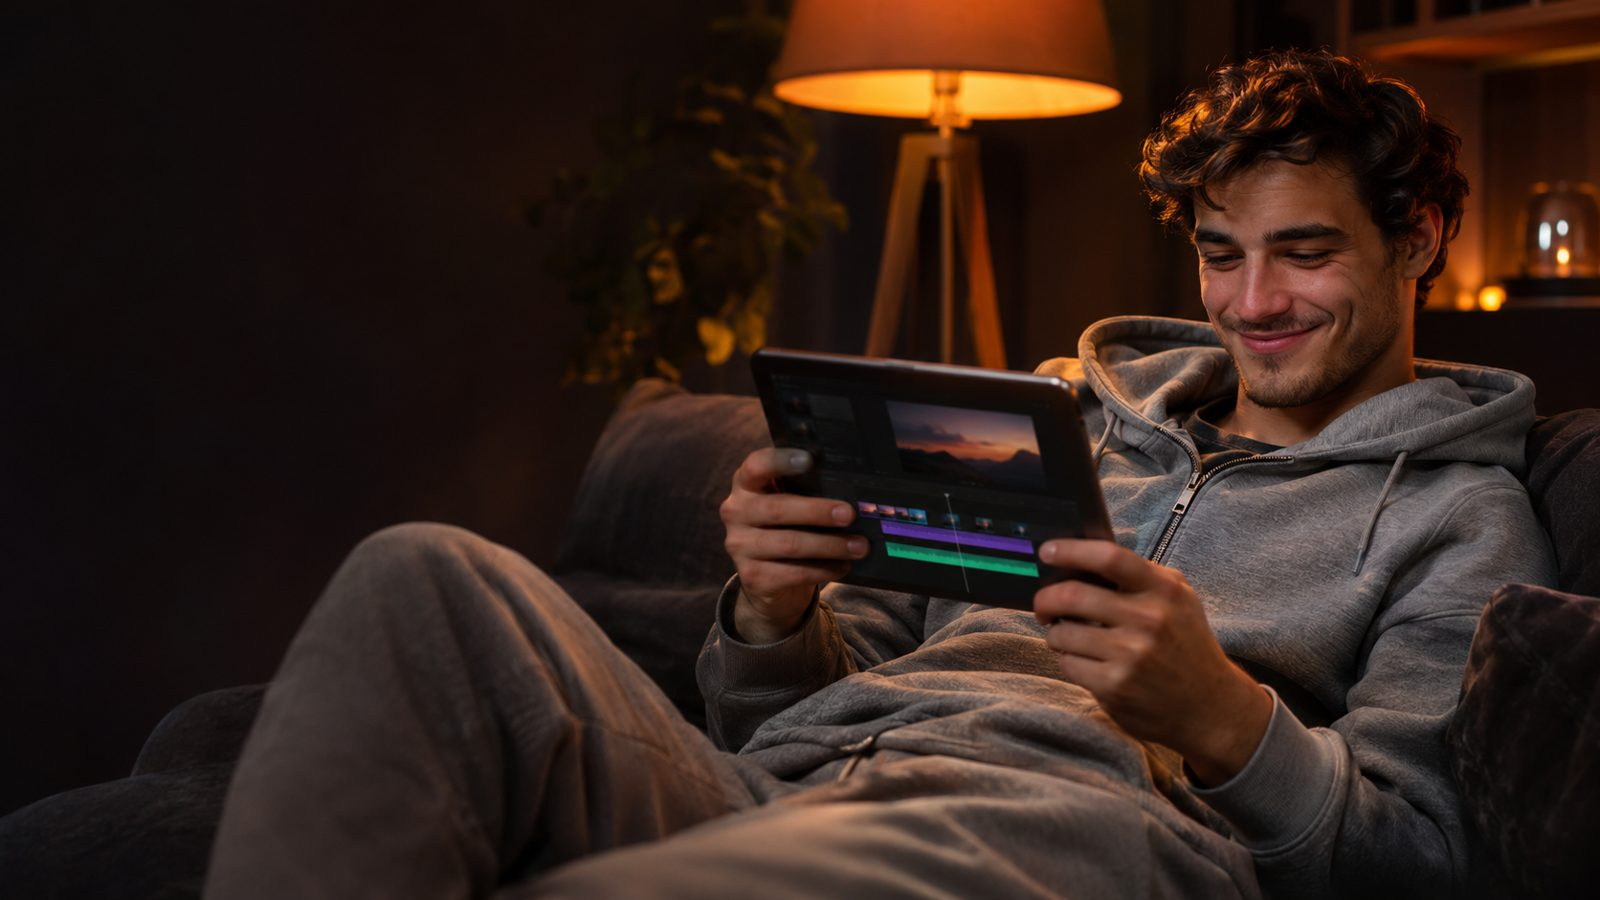
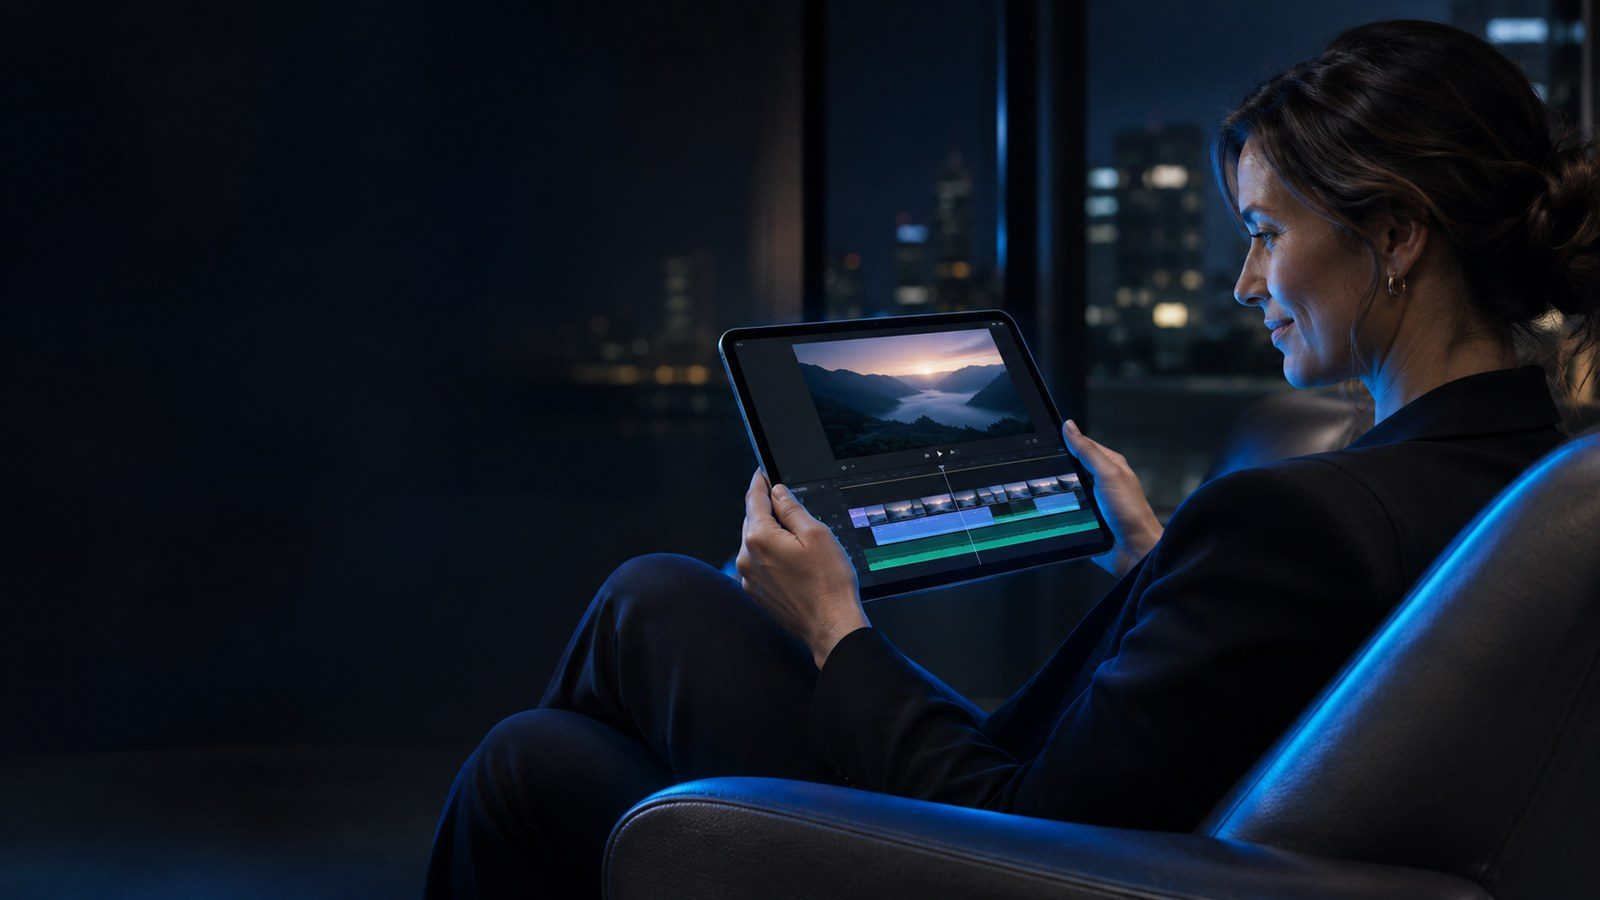
v3.5: Framepoint by Blue Tacit - neuer Name, Corporate-Startbild

diff --git a/index.html b/index.html
@@ -6,9 +6,9 @@
 <meta name="apple-mobile-web-app-capable" content="yes">
 <meta name="mobile-web-app-capable" content="yes">
 <meta name="apple-mobile-web-app-status-bar-style" content="black-translucent">
-<meta name="apple-mobile-web-app-title" content="Burning Balls">
+<meta name="apple-mobile-web-app-title" content="Framepoint">
 <meta name="theme-color" content="#0b0b0d">
-<title>Burning Balls</title>
+<title>Framepoint</title>
 <link rel="manifest" href="manifest.webmanifest">
 <link rel="apple-touch-icon" href="icon-192.png">
 <link rel="icon" href="icon-192.png">
@@ -19,7 +19,7 @@
 <!-- Projektliste -->
 <section id="home" class="screen">
   <header class="bar">
-    <h1>Burning Balls</h1>
+    <h1>Framepoint</h1>
     <span class="grow"></span>
     <button id="btnHelp2" class="ghost">Hilfe</button>
   </header>
@@ -27,9 +27,9 @@
     <div class="hero" id="hero">
       <div class="hero-txt">
         <img class="hero-logo" src="logo.png" alt="Blue Tacit Productions">
-        <div class="hero-kicker">Footage-Auswahl</div>
-        <div class="hero-title">Burning Balls</div>
-        <div class="hero-sub">Der PC für die Couch.</div>
+        <div class="hero-kicker">Footage sichten · Feedback geben</div>
+        <div class="hero-title">Framepoint</div>
+        <div class="hero-sub">Feedback auf den Frame genau.</div>
       </div>
     </div>
     <div id="projList" class="proj-list"></div>

diff --git a/styles.css b/styles.css
@@ -51,7 +51,10 @@ input[type=text], textarea { font: inherit; color: var(--text); background: var(
 .hero { position: relative; border-radius: 22px; overflow: hidden; min-height: 240px; margin-bottom: 18px;
   background: radial-gradient(120% 140% at 85% 10%, #ff9f0a55 0%, transparent 55%), linear-gradient(160deg, #2a1a0c, #0b0b0d 70%);
   background-size: cover; background-position: center; display: flex; align-items: flex-end; }
-.hero.has-img { background-image: linear-gradient(180deg, transparent 35%, rgba(0,0,0,.78)), url("hero.jpg"); }
+.hero.has-img { background-image: linear-gradient(90deg, rgba(0,0,0,.88) 0%, rgba(0,0,0,.55) 42%, transparent 70%), url("hero.jpg");
+  background-position: right center; min-height: 300px; }
+.hero-title { color: #fff; }
+.hero-kicker { color: #4da3ff !important; }
 .hero-txt { padding: 20px 22px; }
 .hero-logo { display: block; width: min(220px, 45vw); height: auto; margin-bottom: 14px; filter: drop-shadow(0 2px 6px #000a); }
 .hero-kicker { font-size: 12px; text-transform: uppercase; letter-spacing: .12em; color: #ffd28a; font-weight: 600; }

diff --git a/sw.js b/sw.js
@@ -1,6 +1,6 @@
 // App-Hülle offline verfügbar machen. Footage liegt in IndexedDB, nicht im Cache.
 // Bei jeder App-Änderung VERSION hochzählen, damit Geräte die neue Fassung laden.
-const VERSION = 'burningballs-v34f';
+const VERSION = 'framepoint-v35';
 const FILES = ['./', 'index.html', 'styles.css', 'app.js', 'manifest.webmanifest', 'icon-192.png', 'icon-512.png', 'hero.jpg', 'logo.png'];
 
 self.addEventListener('install', (e) => {
